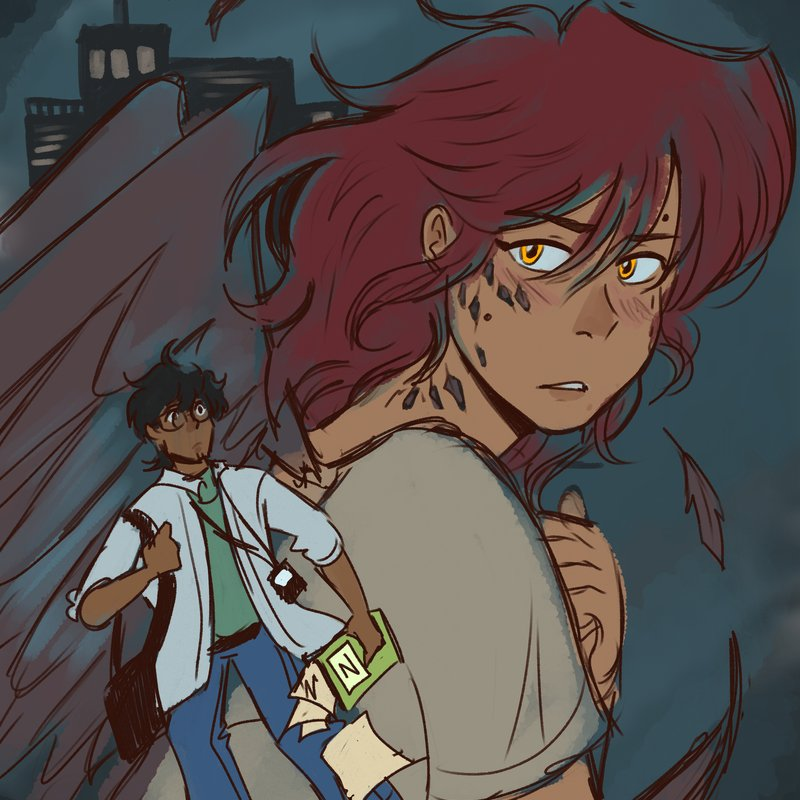
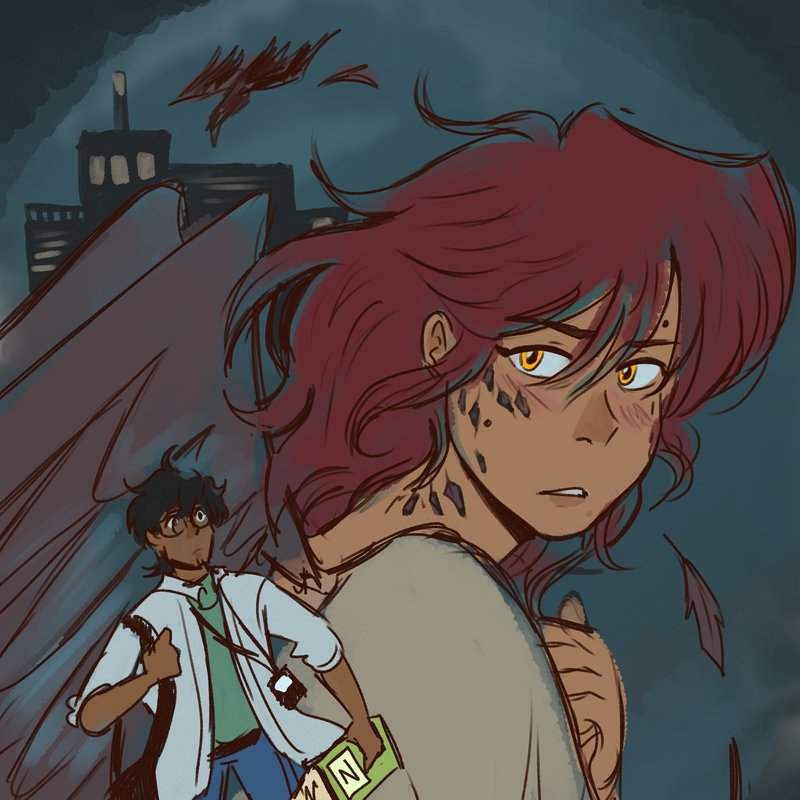
Update portfolio

diff --git a/latest/sketches.html b/latest/sketches.html
@@ -71,12 +71,12 @@
   <meta property="og:description" content="sketches — Portfolio of Madison Luna — illustration, character design, comics, and storyboard art.">
   <meta property="og:type" content="website">
   <meta property="og:url" content="https://lunaportfolio.me/latest/sketches.html">
-  <meta property="og:image" content="https://lunaportfolio.me/art/sketches/Comp%202.jpg">
+  <meta property="og:image" content="https://lunaportfolio.me/art/sketches/Project%202%20Refinement%202.jpg">
   <meta property="og:site_name" content="MADISON">
   <meta name="twitter:card" content="summary_large_image">
   <meta name="twitter:title" content="MADISON - sketches">
   <meta name="twitter:description" content="sketches — Portfolio of Madison Luna — illustration, character design, comics, and storyboard art.">
-  <meta name="twitter:image" content="https://lunaportfolio.me/art/sketches/Comp%202.jpg">
+  <meta name="twitter:image" content="https://lunaportfolio.me/art/sketches/Project%202%20Refinement%202.jpg">
 </head>
 <body>
   <!-- Top Navigation -->
@@ -103,12 +103,24 @@
         <img alt="Comp 2" src="/art/sketches/thumbnails/Comp%202.jpg" loading="lazy">
       </button>
 
+      <button class="cell tile" data-full="/art/sketches/ART%20317%20HW.jpg">
+        <img alt="ART 317 HW" src="/art/sketches/ART%20317%20HW.jpg" loading="lazy">
+      </button>
+
       <button class="cell tile" data-full="/art/sketches/ART%20363B%20LUNA%20MADISON%20Project%201%20Concept.jpg">
         <img alt="ART 363B LUNA MADISON Project 1 Concept" src="/art/sketches/ART%20363B%20LUNA%20MADISON%20Project%201%20Concept.jpg" loading="lazy">
       </button>
 
-      <button class="cell tile" data-full="/art/sketches/ART%20317%20HW.jpg">
-        <img alt="ART 317 HW" src="/art/sketches/ART%20317%20HW.jpg" loading="lazy">
+      <button class="cell tile" data-full="/art/sketches/Project%202%20Refinement%201.jpg">
+        <img alt="Project 2 Refinement 1" src="/art/sketches/thumbnails/Project%202%20Refinement%201.jpg" loading="lazy">
+      </button>
+
+      <button class="cell tile" data-full="/art/sketches/Project%202%20Refinement%202.jpg">
+        <img alt="Project 2 Refinement 2" src="/art/sketches/thumbnails/Project%202%20Refinement%202.jpg" loading="lazy">
+      </button>
+
+      <button class="cell tile" data-full="/art/sketches/Project%202%20Refinement%203.jpg">
+        <img alt="Project 2 Refinement 3" src="/art/sketches/thumbnails/Project%202%20Refinement%203.jpg" loading="lazy">
       </button>
 
       <button class="cell tile" data-full="/art/sketches/Illustration3%20knight.jpg">
@@ -127,24 +139,12 @@
         <img alt="Wingspam 1-3" src="/art/sketches/Wingspam%201-3.jpg" loading="lazy">
       </button>
 
-      <button class="cell tile" data-full="/art/sketches/Sketchbook%203.jpg">
-        <img alt="Sketchbook 3" src="/art/sketches/Sketchbook%203.jpg" loading="lazy">
-      </button>
-
       <button class="cell tile" data-full="/art/sketches/Thumbnails%20P3.jpg">
         <img alt="Thumbnails P3" src="/art/sketches/Thumbnails%20P3.jpg" loading="lazy">
       </button>
 
-      <button class="cell tile" data-full="/art/sketches/Project%202%20Refinement%201.jpg">
-        <img alt="Project 2 Refinement 1" src="/art/sketches/thumbnails/Project%202%20Refinement%201.jpg" loading="lazy">
-      </button>
-
-      <button class="cell tile" data-full="/art/sketches/Project%202%20Refinement%202.jpg">
-        <img alt="Project 2 Refinement 2" src="/art/sketches/thumbnails/Project%202%20Refinement%202.jpg" loading="lazy">
-      </button>
-
-      <button class="cell tile" data-full="/art/sketches/Project%202%20Refinement%203.jpg">
-        <img alt="Project 2 Refinement 3" src="/art/sketches/thumbnails/Project%202%20Refinement%203.jpg" loading="lazy">
+      <button class="cell tile" data-full="/art/sketches/Sketchbook%203.jpg">
+        <img alt="Sketchbook 3" src="/art/sketches/Sketchbook%203.jpg" loading="lazy">
       </button>
 
     </div>

diff --git a/index.html b/index.html
@@ -165,7 +165,7 @@
 
       <a class="card" href="latest/sketches.html">
         <figure class="thumb">
-          <img src="./art/sketches/thumbnails/Comp%202.jpg" alt="sketches" loading="lazy"/>
+          <img src="./art/sketches/thumbnails/Project%202%20Refinement%202.jpg" alt="sketches" loading="lazy"/>
         </figure>
         <div class="label">sketches</div>
       </a>
